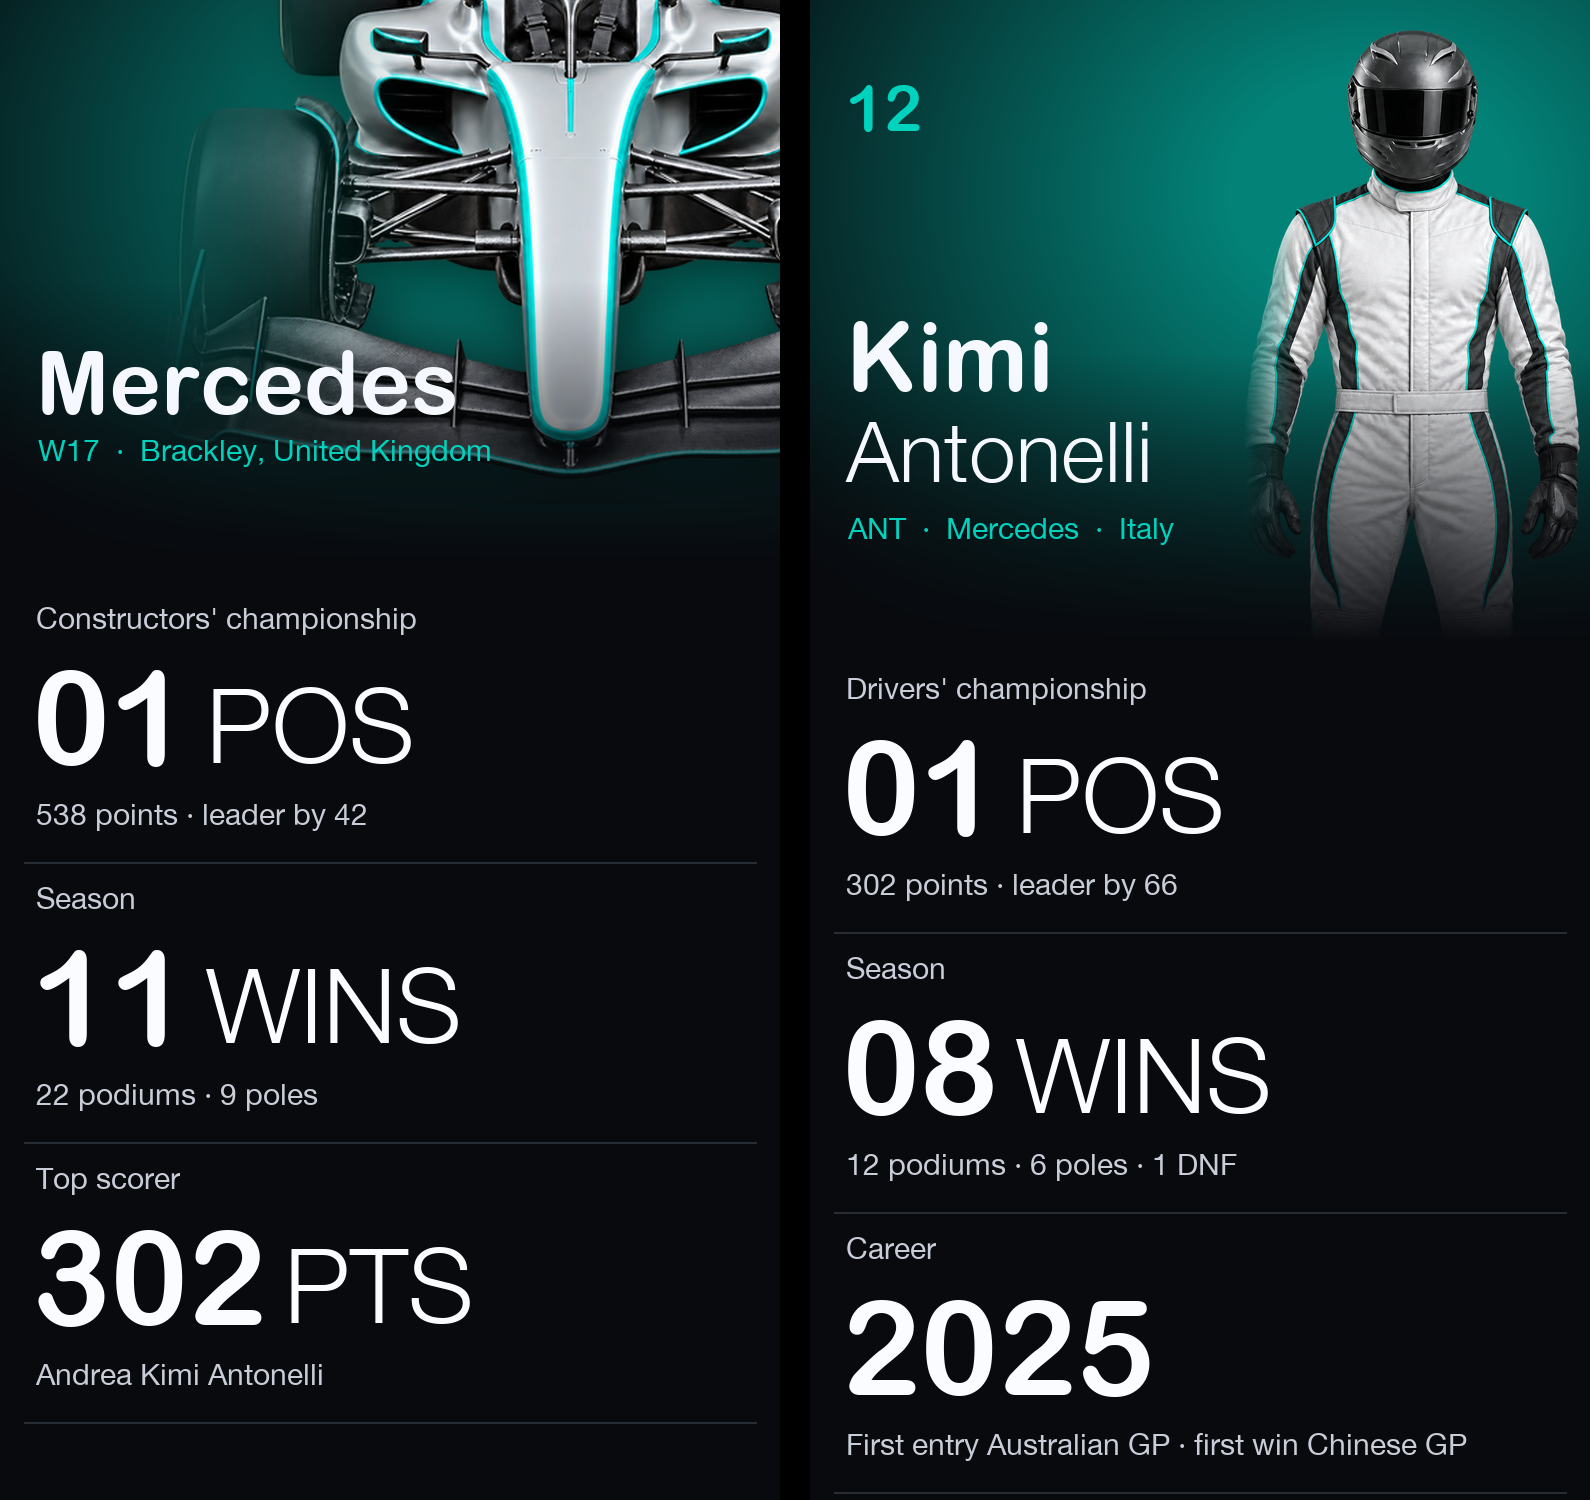
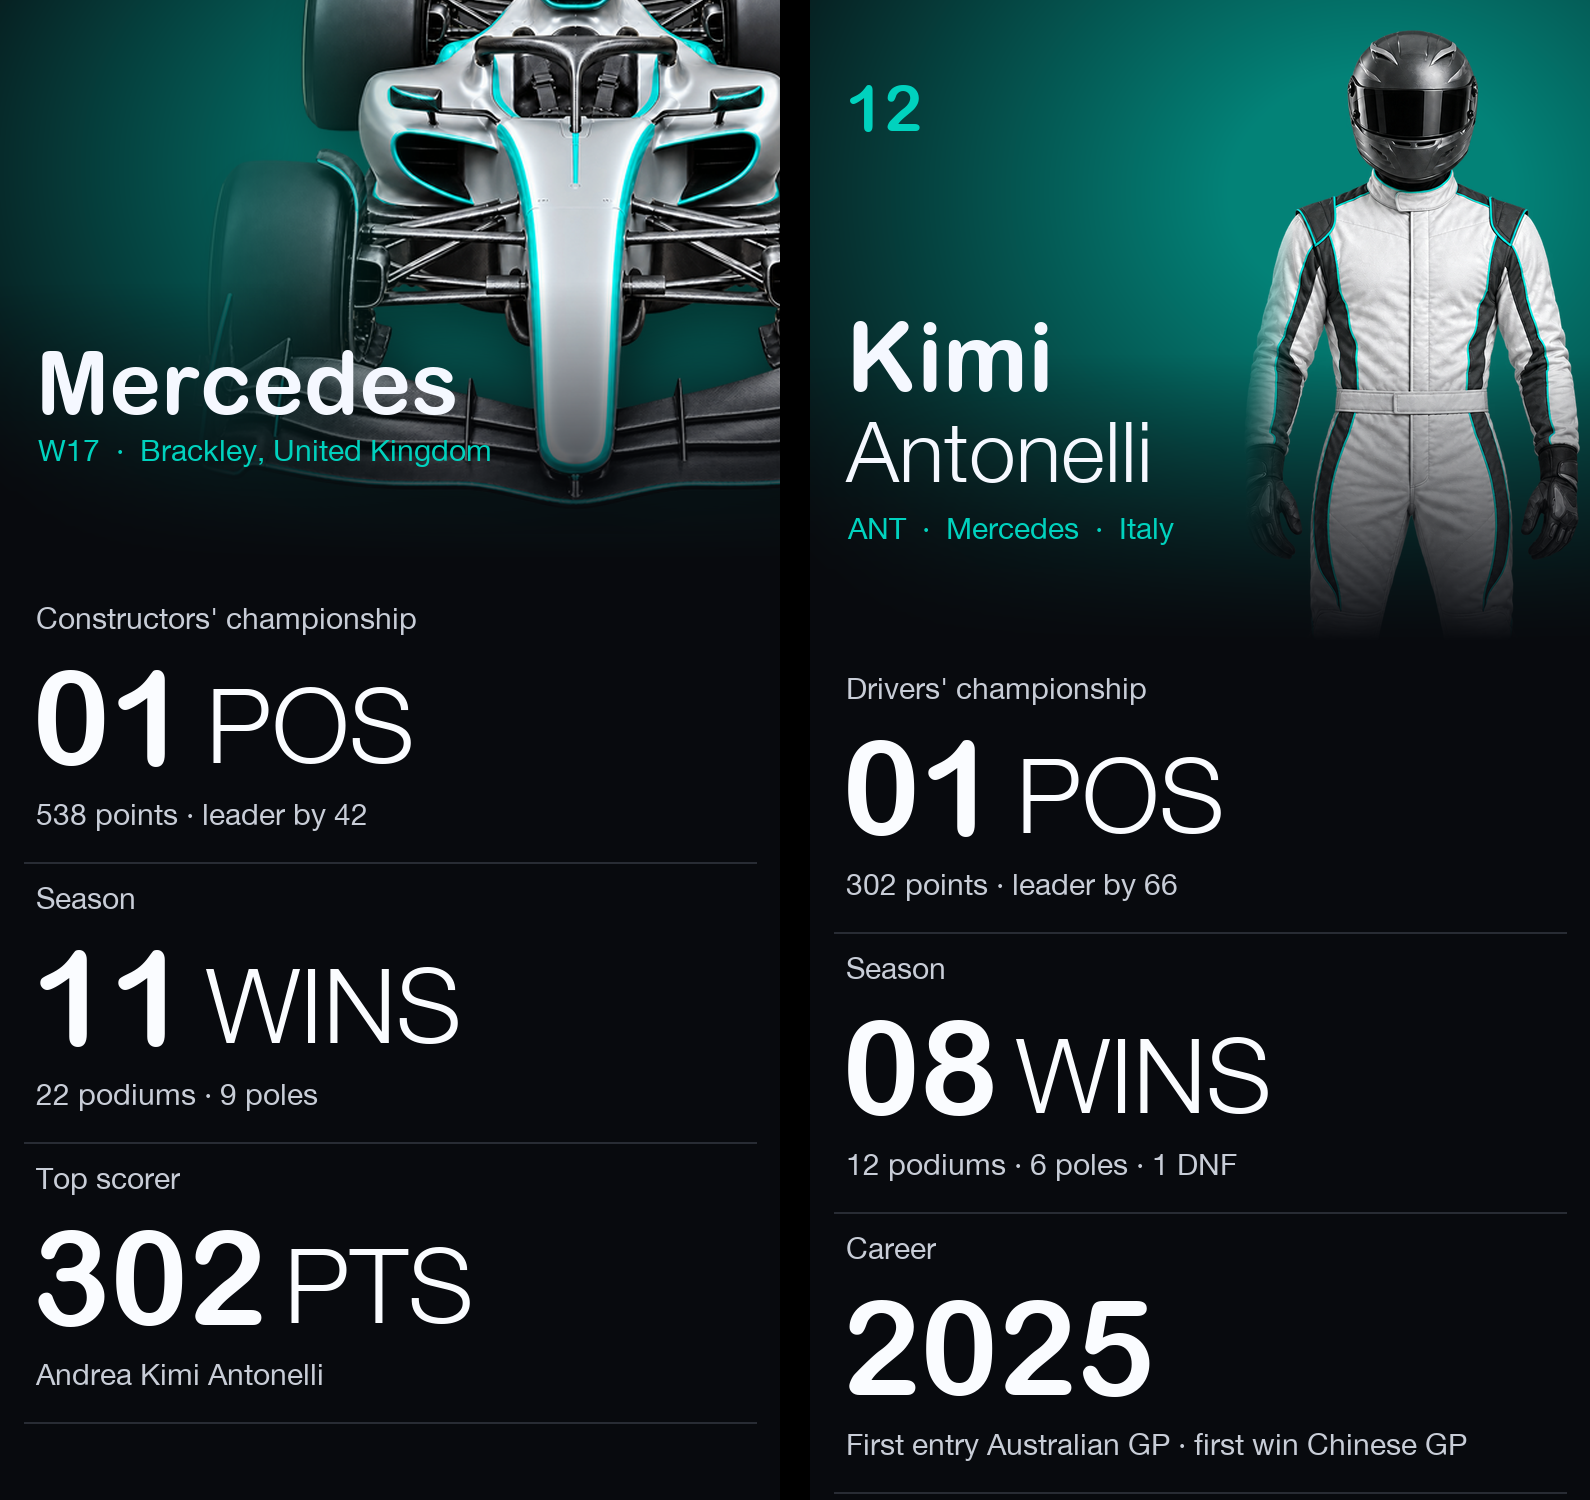
Team sheet mock: car a little smaller and lower

Changed region(s): [[0.1233, 0.0, 0.4931, 0.3373]]

diff --git a/scripts/design/mock_profile_sheets.py b/scripts/design/mock_profile_sheets.py
@@ -30,8 +30,8 @@ def team(out):
     car = trim(Image.open('Marketing/raw/art/Silver graphite open-wheel with turquoise accents.png').convert('RGBA'))
     car = car.resize((600, int(car.height*600/car.width)), Image.LANCZOS)
     # straight down from the top, on the right like the driver: the front half enters the sheet
-    car = car.resize((820, int(car.height*820/car.width)), Image.LANCZOS)
-    x0, y0 = W - car.width + 200, -car.height + 480
+    car = car.resize((770, int(car.height*770/car.width)), Image.LANCZOS)
+    x0, y0 = W - car.width + 180, -car.height + 510
     car = fade_left(car, 0.3)
     sh = Image.new('RGBA', car.size, (0,0,0,0)); sh.putalpha(car.getchannel('A').point(lambda a: int(a*0.5)))
     hdr.alpha_composite(sh.filter(ImageFilter.GaussianBlur(22)), (x0+10, y0+24))
